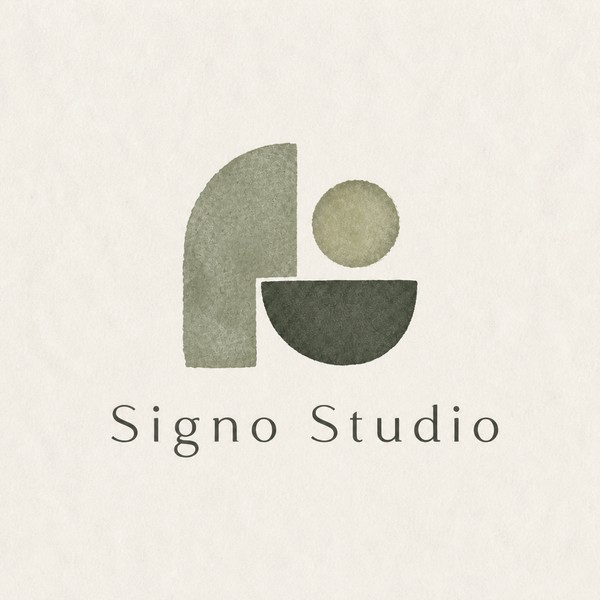
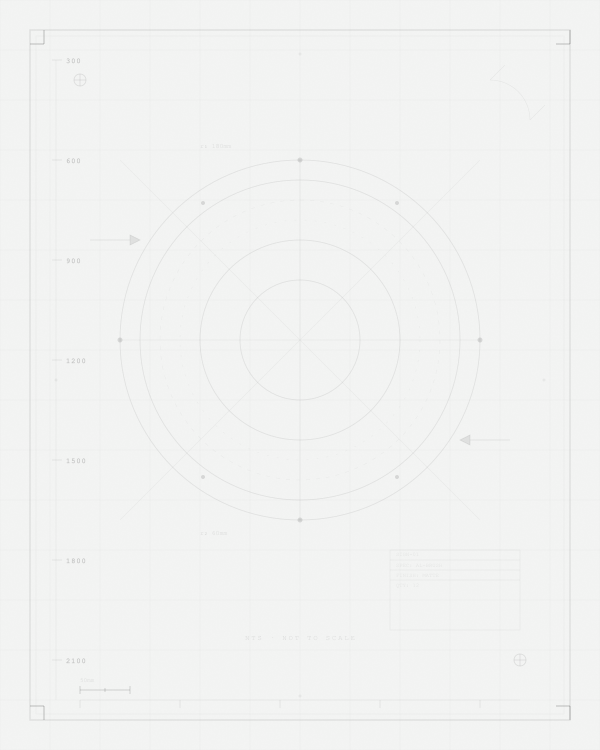
fix: remove remaining wabi-sabi warmth
- CSS: shifted #f5f5f2 → #f3f4f3 (neutral), #fafaf8 → #f7f8f7 (cool)
- Nav bg: updated to match new neutral base
- All section/card backgrounds: neutral cool off-white
- hero-visual.svg: replaced warm pigeon illustration with technical
  blueprint/inspection diagram (concentric circles, crosshairs,
  measurement scales, annotation boxes, registration marks)
- hero-visual.jpg: regenerated from new SVG

diff --git a/index.html b/index.html
@@ -22,7 +22,7 @@
       font-size: 0.95rem;
       color: #646a70;
       line-height: 1.7;
-      background-color: #f5f5f2;
+      background-color: #f3f4f3;
     }
     img { max-width: 100%; height: auto; display: block; }
     a { color: inherit; text-decoration: none; }
@@ -155,7 +155,7 @@
       position: fixed;
       top: 0; left: 0; right: 0;
       z-index: 100;
-      background: rgba(245,245,242,0.95);
+      background: rgba(243,244,243,0.95);
       backdrop-filter: blur(10px);
       border-bottom: 1px solid rgba(0,0,0,0.06);
     }
@@ -277,7 +277,7 @@
       aspect-ratio: 4 / 5;
       max-height: 520px;
       border: 1px solid rgba(0,0,0,0.08);
-      background: #fafaf8;
+      background: #f7f8f7;
       display: flex;
       align-items: center;
       justify-content: center;
@@ -349,7 +349,7 @@
     }
 
     /* ===== Services ===== */
-    #services { background: #fafaf8; }
+    #services { background: #f7f8f7; }
     .services-grid {
       display: grid;
       grid-template-columns: repeat(3, 1fr);
@@ -358,12 +358,12 @@
       border: 1px solid rgba(0,0,0,0.06);
     }
     .service-card {
-      background: #fafaf8;
+      background: #f7f8f7;
       padding: 48px 36px;
       transition: background 0.2s;
       position: relative;
     }
-    .service-card:hover { background: #f5f5f2; }
+    .service-card:hover { background: #f3f4f3; }
     .service-card .icon-wrap {
       width: 40px;
       height: 40px;
@@ -434,7 +434,7 @@
     .why-item p { font-size: 0.88rem; color: #646a70; line-height: 1.6; }
 
     /* ===== Process ===== */
-    #process { background: #fafaf8; }
+    #process { background: #f7f8f7; }
     .process-steps {
       display: grid;
       grid-template-columns: repeat(5, 1fr);
@@ -443,7 +443,7 @@
       background: rgba(0,0,0,0.06);
     }
     .process-step {
-      background: #fafaf8;
+      background: #f7f8f7;
       padding: 36px 28px;
       position: relative;
       text-align: center;
@@ -480,7 +480,7 @@
       background: rgba(0,0,0,0.06);
     }
     .space-card {
-      background: #f5f5f2;
+      background: #f3f4f3;
       padding: 36px 24px;
       text-align: center;
       position: relative;
@@ -508,7 +508,7 @@
       border: 1px solid rgba(0,0,0,0.06);
     }
     .project-card {
-      background: #f5f5f2;
+      background: #f3f4f3;
       overflow: hidden;
       position: relative;
     }
@@ -587,7 +587,7 @@
     }
 
     /* ===== Contact ===== */
-    #contact { background: #fafaf8; }
+    #contact { background: #f7f8f7; }
     .contact-grid {
       display: grid;
       grid-template-columns: 1fr 1fr;